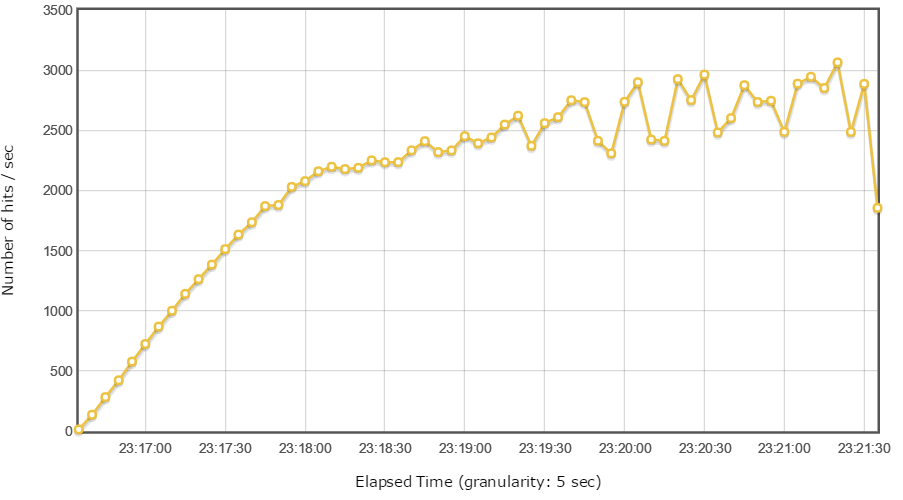
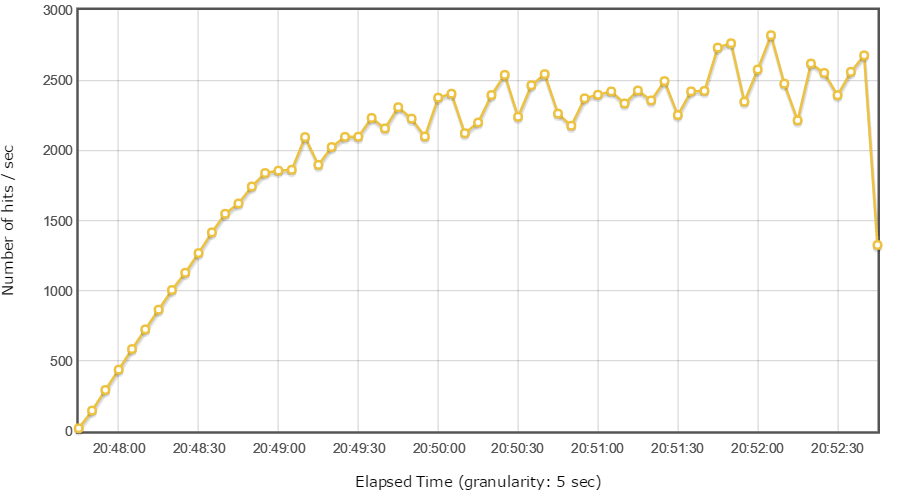
refactor(relay): change key/value service HTTP API
The HTTP API of the key/value service has changed. Its response format no longer matches the response format of the relay service, forcing the relay service to deserialize and serialize data. This pattern of reformatting the response is better aligned with how services would consume data from other services.

Closes #2

diff --git a/technologies/nodejs/relay/controller.js b/technologies/nodejs/relay/controller.js
@@ -7,7 +7,13 @@ exports.get = (req, res, next) => {
     return request(`http://${hostname}:${port}/store/${req.params.key}`, (error, response, body) => {
         next.ifError(error);
 
-        res.send(JSON.parse(body));
+        const keyValue = JSON.parse(body);
+        const keyValuePair = {
+            key: req.params.key,
+            value: keyValue.value,
+        };
+
+        res.json(keyValuePair);
         next();
     });
 };

diff --git a/technologies/go/relay.go b/technologies/go/relay.go
@@ -4,8 +4,8 @@ import (
 	"fmt"
 	"github.com/julienschmidt/httprouter"
 	"net/http"
-	"io/ioutil"
 	"os"
+	"encoding/json"
 )
 
 var relayServiceHostname = os.Getenv("Relay:KeyValueServiceHostname")
@@ -18,8 +18,23 @@ func Relay(w http.ResponseWriter, r *http.Request, ps httprouter.Params) {
 	resp, _ := http.Get(url)
 	defer resp.Body.Close()
 
-	body, _ := ioutil.ReadAll(resp.Body)
+	var keyValue KeyValue
+	json.NewDecoder(resp.Body).Decode(&keyValue)
+
+	var keyValuePair = KeyValuePair {
+		Key: key,
+		Value: keyValue.Value,
+	}
 
 	w.Header().Set("Content-Type", "application/json")
-	w.Write(body)
+	json.NewEncoder(w).Encode(keyValuePair)
+}
+
+type KeyValue struct {
+	Value	string	`json:"value"`
+}
+
+type KeyValuePair struct {
+	Key	string	`json:"key"`
+	Value	string	`json:"value"`
 }

diff --git a/technologies/dotnet-core/Relay/RelayController.cs b/technologies/dotnet-core/Relay/RelayController.cs
@@ -15,9 +15,15 @@ namespace DotNetCore.Relay
 
 		[Route("{key}")]
 		[Produces("application/json")]
-		public Task<string> GetAsync(string key)
+		public async Task<KeyValuePair> GetAsync(string key)
 		{
-			return relayService.GetKeyValueAsync(key);
+			var keyValue = await relayService.GetKeyValueAsync(key);
+			
+			return new KeyValuePair
+			{
+				Key = key,
+				Value = keyValue.Value
+			};
 		}
 	}
 }

diff --git a/shared/main.go b/shared/main.go
@@ -20,13 +20,12 @@ func Store(w http.ResponseWriter, r *http.Request, ps httprouter.Params) {
 		return caesar(r, 18)
 	}, key)
 
-	keyValuePair := KeyValuePair {
-		Key: key,
+	keyValue := KeyValue {
 		Value: value,
 	}
 
 	w.Header().Set("Content-Type", "application/json")
-	json.NewEncoder(w).Encode(keyValuePair)
+	json.NewEncoder(w).Encode(keyValue)
 }
 
 func main() {

diff --git a/technologies/dotnet-core/Relay/RelayService.cs b/technologies/dotnet-core/Relay/RelayService.cs
@@ -20,10 +20,10 @@ namespace DotNetCore.Relay
 			};
 		}
 
-		public async Task<string> GetKeyValueAsync(string key)
+		public async Task<KeyValue> GetKeyValueAsync(string key)
 		{
 			var response = await client.GetAsync($"/store/{key}");
-			return await response.Content.ReadAsStringAsync();
+			return await response.Content.ReadAsAsync<KeyValue>();
 		}
 	}
 }

diff --git a/technologies/dotnet-core/Relay/KeyValuePair.cs b/technologies/dotnet-core/Relay/KeyValuePair.cs
@@ -1,0 +1,5 @@
+public class KeyValuePair
+{
+    public string Key { get; set; }
+    public string Value { get; set; }
+}

diff --git a/shared/keyvalue.go b/shared/keyvalue.go
@@ -1,0 +1,5 @@
+package main
+
+type KeyValue struct {
+	Value	string	`json:"value"`
+}

diff --git a/technologies/dotnet-core/Relay/KeyValue.cs b/technologies/dotnet-core/Relay/KeyValue.cs
@@ -1,0 +1,4 @@
+public class KeyValue
+{
+    public string Value { get; set; }
+}

diff --git a/BENCHMARK.md b/BENCHMARK.md
@@ -140,9 +140,9 @@ Benchmarks have been configured to run for 300 seconds. A benchmark starts with 
 
 | Technology | Error     | Average Response Time (ms) | 90th Percentile (ms) | 95th Percentile (ms) | 99th Percentile (ms) | Throughput  |
 | ---------- | --------- | -------------------------- | -------------------- | -------------------- | -------------------- | ----------- |
-| .NET Core  | __0.00%__ | 69.56                      | 134                  | 141                  | __159__              | 2160.11     |
-| Go         | 0.01%     | __50.83__                  | __57__               | __67__               | 3081                 | __2908.68__ |
-| NodeJS     | __0.00%__ | 119.25                     | 280                  | 324                  | 363                  | 1261.04     |
+| .NET Core  | __0.00%__ | 74.20                      | 133                  | 144                  | __169__              | 2023.62     |
+| Go         | 0.01%     | __53.83__                  | __63__               | __69__               | 3150                 | __2726.88__ |
+| NodeJS     | __0.00%__ | 109.67                     | 235                  | 271                  | 325                  | 1370.02     |
 
 #### Response Time Over Threads
 

diff --git a/README.md b/README.md
@@ -1,5 +1,7 @@
 # Web Server Technology Benchmark
 
+v1.1.0 - For a detailed documentation of the changes, please see the [change log](./CHANGELOG.md).
+
 ## Introduction
 
 This project is focused on comparing the performance of web servers implemented in a small subset of programming languages. The project currently has benchmarks for:
@@ -8,7 +10,7 @@ This project is focused on comparing the performance of web servers implemented 
 - Go
 - NodeJS
 
-A comparison between the languages can be found [here](./BENCHMARK.md).
+A comparison between the languages can be in the [benchmark](./BENCHMARK.md).
 
 ## Web Server
 
@@ -84,7 +86,6 @@ GET /store/{key} HTTP/1.1
 Content-Type: application/json
 
 {
-    "key": "{key}",
     "value": "{value}"
 }
 ```

diff --git a/CHANGELOG.md b/CHANGELOG.md
@@ -4,6 +4,12 @@ All notable changes to this project will be documented in this file.
 
 This project adheres to [Semantic Versioning](http://semver.org/) and is following the [change log format](http://keepachangelog.com/).
 
+## 1.1.0 2017-04-18
+
+### Changed
+
+- [Relay Benchmark] The HTTP API of the key/value service has changed. Its response format no longer matches the response format of the relay service, forcing the relay service to deserialize and serialize data. This pattern of reformatting the response is better aligned with how services would consume data from other services.
+
 ## 1.0.0 2017-04-17
 
 Initial version.
